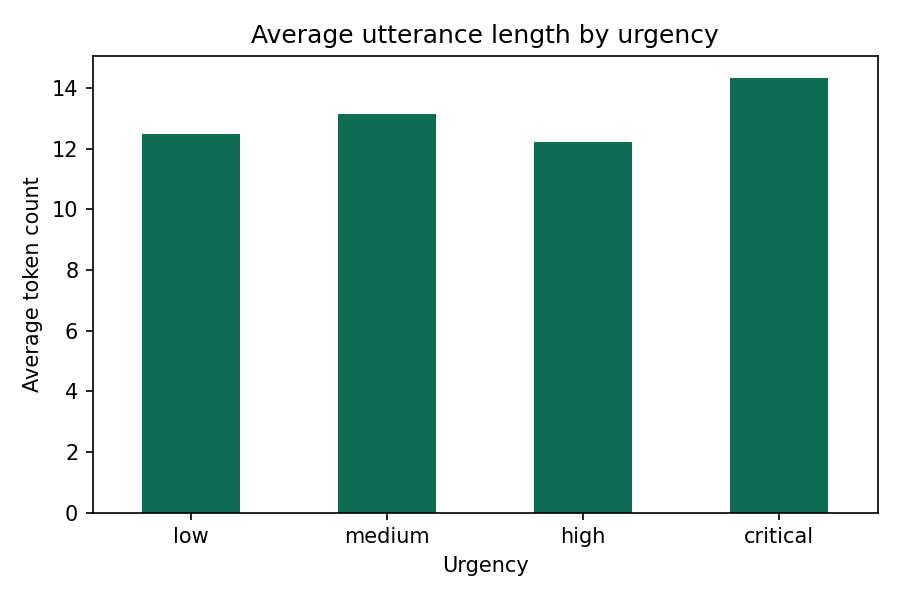
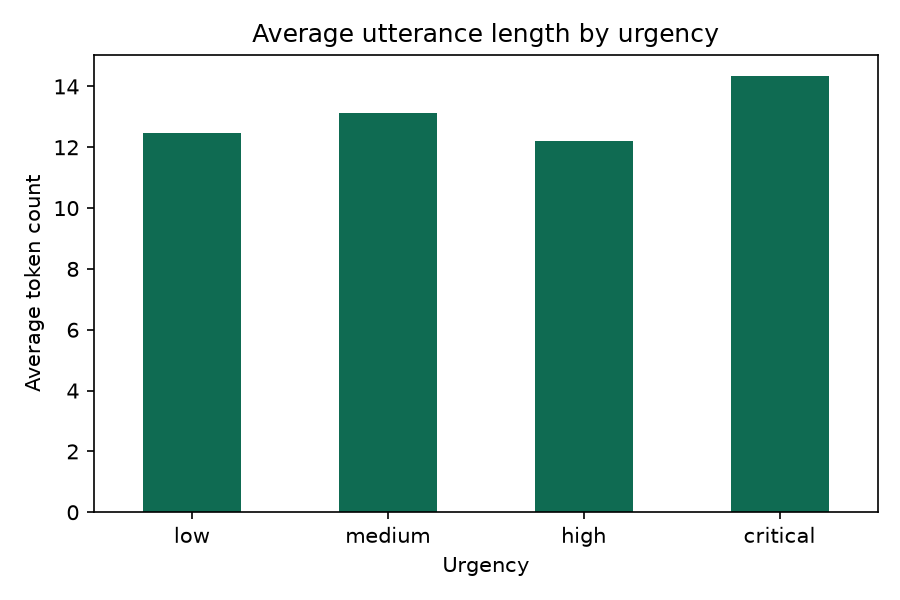
Add MLOps packaging (MLflow, DVC, Docker) for the analysis pipeline
- Wrap notebook analysis (length/feature/keyness by urgency) as a
  scriptable, MLflow-tracked runner (scripts/run_analysis.py)
- Add DVC pipeline definition (dvc.yaml/dvc.lock) for reproducible re-runs
- Add Dockerfile for zero-setup containerized analysis
- Notebooks remain the primary interactive entry point; this adds a
  reproducible non-interactive path for the same analysis

diff --git a/scripts/run_analysis.py b/scripts/run_analysis.py
@@ -1,0 +1,157 @@
+"""
+MLflow-tracked corpus analysis runner.
+
+Reproduces the analysis from notebooks/01_corpus_statistics.ipynb and
+notebooks/02_keyword_collocation_analysis.ipynb as a single scriptable,
+trackable pipeline stage: utterance-length by urgency, lexicon-tagged
+feature presence by urgency, and a keyness comparison of high/critical vs.
+low/medium urgency utterances. Notebooks remain the primary place to read
+and explore the analysis interactively; this script is the reproducible,
+non-interactive entry point for CI, DVC, and Docker.
+
+Usage:
+    python scripts/run_analysis.py --corpus data/corpus.jsonl --results-dir results
+"""
+
+from __future__ import annotations
+
+import argparse
+import json
+import logging
+import sys
+from pathlib import Path
+
+sys.path.insert(0, str(Path(__file__).resolve().parent.parent))
+
+import matplotlib
+matplotlib.use("Agg")
+import matplotlib.pyplot as plt
+import mlflow
+
+from src.corpus_analysis import corpus_to_dataframe, keyness_table, shape_for_display
+
+logger = logging.getLogger(__name__)
+
+URGENCY_ORDER = ["low", "medium", "high", "critical"]
+FEATURE_COLS = [
+    "temporal_expression_present",
+    "distress_marker_present",
+    "intensifier_present",
+    "negation_present",
+    "repetition",
+]
+
+
+def load_corpus(corpus_path: str) -> list[dict]:
+    with open(corpus_path, encoding="utf-8") as f:
+        return [json.loads(line) for line in f]
+
+
+def run_analysis(corpus_path: str, results_dir: str, experiment_name: str = "uec-corpus-analysis") -> dict:
+    mlflow.set_experiment(experiment_name)
+
+    records = load_corpus(corpus_path)
+    df = corpus_to_dataframe(records)
+    for field in ["temporal_expression", "distress_marker", "intensifier", "negation"]:
+        df[f"{field}_present"] = df[field].apply(lambda x: x["present"])
+    df["repetition"] = df["repetition"].astype(bool)
+    df["urgency_band"] = df["urgency"].map(
+        {"low": "low_medium", "medium": "low_medium", "high": "high_critical", "critical": "high_critical"}
+    )
+
+    results_path = Path(results_dir)
+    results_path.mkdir(parents=True, exist_ok=True)
+
+    with mlflow.start_run(run_name="corpus-analysis"):
+        mlflow.log_param("corpus_path", str(corpus_path))
+        mlflow.log_param("n_utterances", len(df))
+
+        # 1. Average utterance length by urgency
+        length_by_urgency = df.groupby("urgency")["token_count"].mean().reindex(URGENCY_ORDER)
+        fig, ax = plt.subplots(figsize=(6, 4))
+        length_by_urgency.plot(kind="bar", ax=ax, color="#0f6b52")
+        ax.set_ylabel("Average token count")
+        ax.set_xlabel("Urgency")
+        ax.set_title("Average utterance length by urgency")
+        plt.xticks(rotation=0)
+        plt.tight_layout()
+        length_chart = results_path / "length_by_urgency.png"
+        plt.savefig(length_chart, dpi=150)
+        plt.close(fig)
+        mlflow.log_artifact(str(length_chart))
+        for urgency, val in length_by_urgency.items():
+            if val == val:  # skip NaN (urgency levels absent from this pilot corpus)
+                mlflow.log_metric(f"avg_token_count.{urgency}", float(val))
+
+        # 2. Lexicon-tagged feature presence by urgency
+        summary = df.groupby("urgency")[FEATURE_COLS].mean().reindex(URGENCY_ORDER)
+        summary.columns = ["temporal", "distress", "intensifier", "negation", "repetition"]
+        fig, ax = plt.subplots(figsize=(8, 5))
+        summary.plot(kind="bar", ax=ax)
+        ax.set_ylabel("Proportion of utterances")
+        ax.set_xlabel("Urgency")
+        ax.set_title("Lexicon-tagged feature presence by urgency level")
+        ax.legend(loc="upper left", fontsize=8)
+        plt.xticks(rotation=0)
+        plt.tight_layout()
+        feature_chart = results_path / "lexicon_features_by_urgency.png"
+        plt.savefig(feature_chart, dpi=150)
+        plt.close(fig)
+        mlflow.log_artifact(str(feature_chart))
+        for urgency, row in summary.iterrows():
+            for feat, val in row.items():
+                if val == val:
+                    mlflow.log_metric(f"feature_rate.{urgency}.{feat}", float(val))
+
+        # 3. Keyness: high/critical vs. low/medium urgency
+        key_df = keyness_table(df, "urgency_band", "high_critical", ["low_medium"])
+        top_key = key_df[key_df["target_count"] >= 3].head(12)
+        shaped_labels = [shape_for_display(w) for w in top_key["word"][::-1]]
+        fig, ax = plt.subplots(figsize=(7, 5))
+        ax.barh(shaped_labels, top_key["keyness_ratio"][::-1], color="#0f6b52")
+        ax.set_yticklabels(shaped_labels, fontname="Geeza Pro", fontsize=13)
+        ax.set_xlabel("Keyness ratio (high/critical vs. low/medium)")
+        ax.set_title("Words characteristic of high-urgency utterances\n(min. 3 occurrences in high/critical)")
+        plt.tight_layout()
+        keyness_chart = results_path / "keyness_high_vs_low.png"
+        plt.savefig(keyness_chart, dpi=150)
+        plt.close(fig)
+        mlflow.log_artifact(str(keyness_chart))
+
+        metrics_summary = {
+            "n_utterances": len(df),
+            "vocab_size": len(set(tok for tokens in df["tokens"] for tok in tokens)),
+            "top_keyness_words": [
+                {"word": row["word"], "keyness_ratio": row["keyness_ratio"], "target_count": int(row["target_count"])}
+                for _, row in top_key.head(5).iterrows()
+            ],
+            "avg_token_count_by_urgency": {
+                k: (round(v, 2) if v == v else None) for k, v in length_by_urgency.to_dict().items()
+            },
+        }
+        mlflow.log_metric("vocab_size", metrics_summary["vocab_size"])
+
+        metrics_path = results_path / "metrics.json"
+        with open(metrics_path, "w", encoding="utf-8") as f:
+            json.dump(metrics_summary, f, indent=2, ensure_ascii=False)
+        mlflow.log_artifact(str(metrics_path))
+
+        print(f"Analyzed {len(df)} utterances — vocab size {metrics_summary['vocab_size']}")
+        print(f"Top keyness words: {[w['word'] for w in metrics_summary['top_keyness_words']]}")
+
+    return metrics_summary
+
+
+def main() -> None:
+    parser = argparse.ArgumentParser(description="MLflow-tracked UEC corpus analysis runner")
+    parser.add_argument("--corpus", default="data/corpus.jsonl", help="Path to corpus JSONL file")
+    parser.add_argument("--results-dir", default="results", help="Directory to write charts and metrics")
+    parser.add_argument("--experiment-name", default="uec-corpus-analysis", help="MLflow experiment name")
+    args = parser.parse_args()
+
+    logging.basicConfig(level=logging.INFO)
+    run_analysis(args.corpus, args.results_dir, args.experiment_name)
+
+
+if __name__ == "__main__":
+    main()

diff --git a/README.md b/README.md
@@ -57,11 +57,43 @@ urdu-emergency-corpus/
 ├── src/
 │   ├── preprocessing.py         lexicon-based auto-tagging
 │   └── corpus_analysis.py       tokenization, frequency, keyness, collocation
-├── results/                     generated charts (PNG)
+├── scripts/
+│   └── run_analysis.py          MLflow-tracked, scriptable version of the notebooks
+├── results/                     generated charts (PNG) + metrics.json
 ├── paper/
 │   └── research_report.md       full write-up
 ├── tests/                       pytest suite
-└── requirements.txt
+├── Dockerfile                   containerized analysis runner
+├── dvc.yaml / dvc.lock          reproducible pipeline definition
+├── requirements.txt
+└── requirements-mlops.txt       MLflow + DVC dependencies
+```
+
+## MLOps: tracking & reproducibility
+
+The notebooks remain the primary way to explore this analysis interactively. For a
+reproducible, trackable, non-interactive run of the same analysis (utterance length by
+urgency, lexicon-feature presence by urgency, keyness comparison), three tools wrap it:
+
+- **MLflow** (`scripts/run_analysis.py`) — logs corpus size, vocabulary size, per-urgency
+  average token counts, per-urgency feature presence rates, and the three generated
+  charts as run artifacts. Run `mlflow ui` to browse past runs.
+- **DVC** (`dvc.yaml`/`dvc.lock`) — defines the analysis as a reproducible pipeline
+  (`data/corpus.jsonl` + analysis code → charts + `results/metrics.json`). Run
+  `dvc repro` to re-run only when the corpus or code actually changed.
+- **Docker** — runs the analysis with zero local setup:
+
+```bash
+docker build -t uec-corpus .
+docker run --rm -v "$(pwd)/results:/app/results" uec-corpus
+```
+
+Or without Docker:
+
+```bash
+pip install -r requirements.txt -r requirements-mlops.txt
+python scripts/run_analysis.py --corpus data/corpus.jsonl --results-dir results
+mlflow ui   # inspect logged runs at http://localhost:5000
 ```
 
 ## Data note
